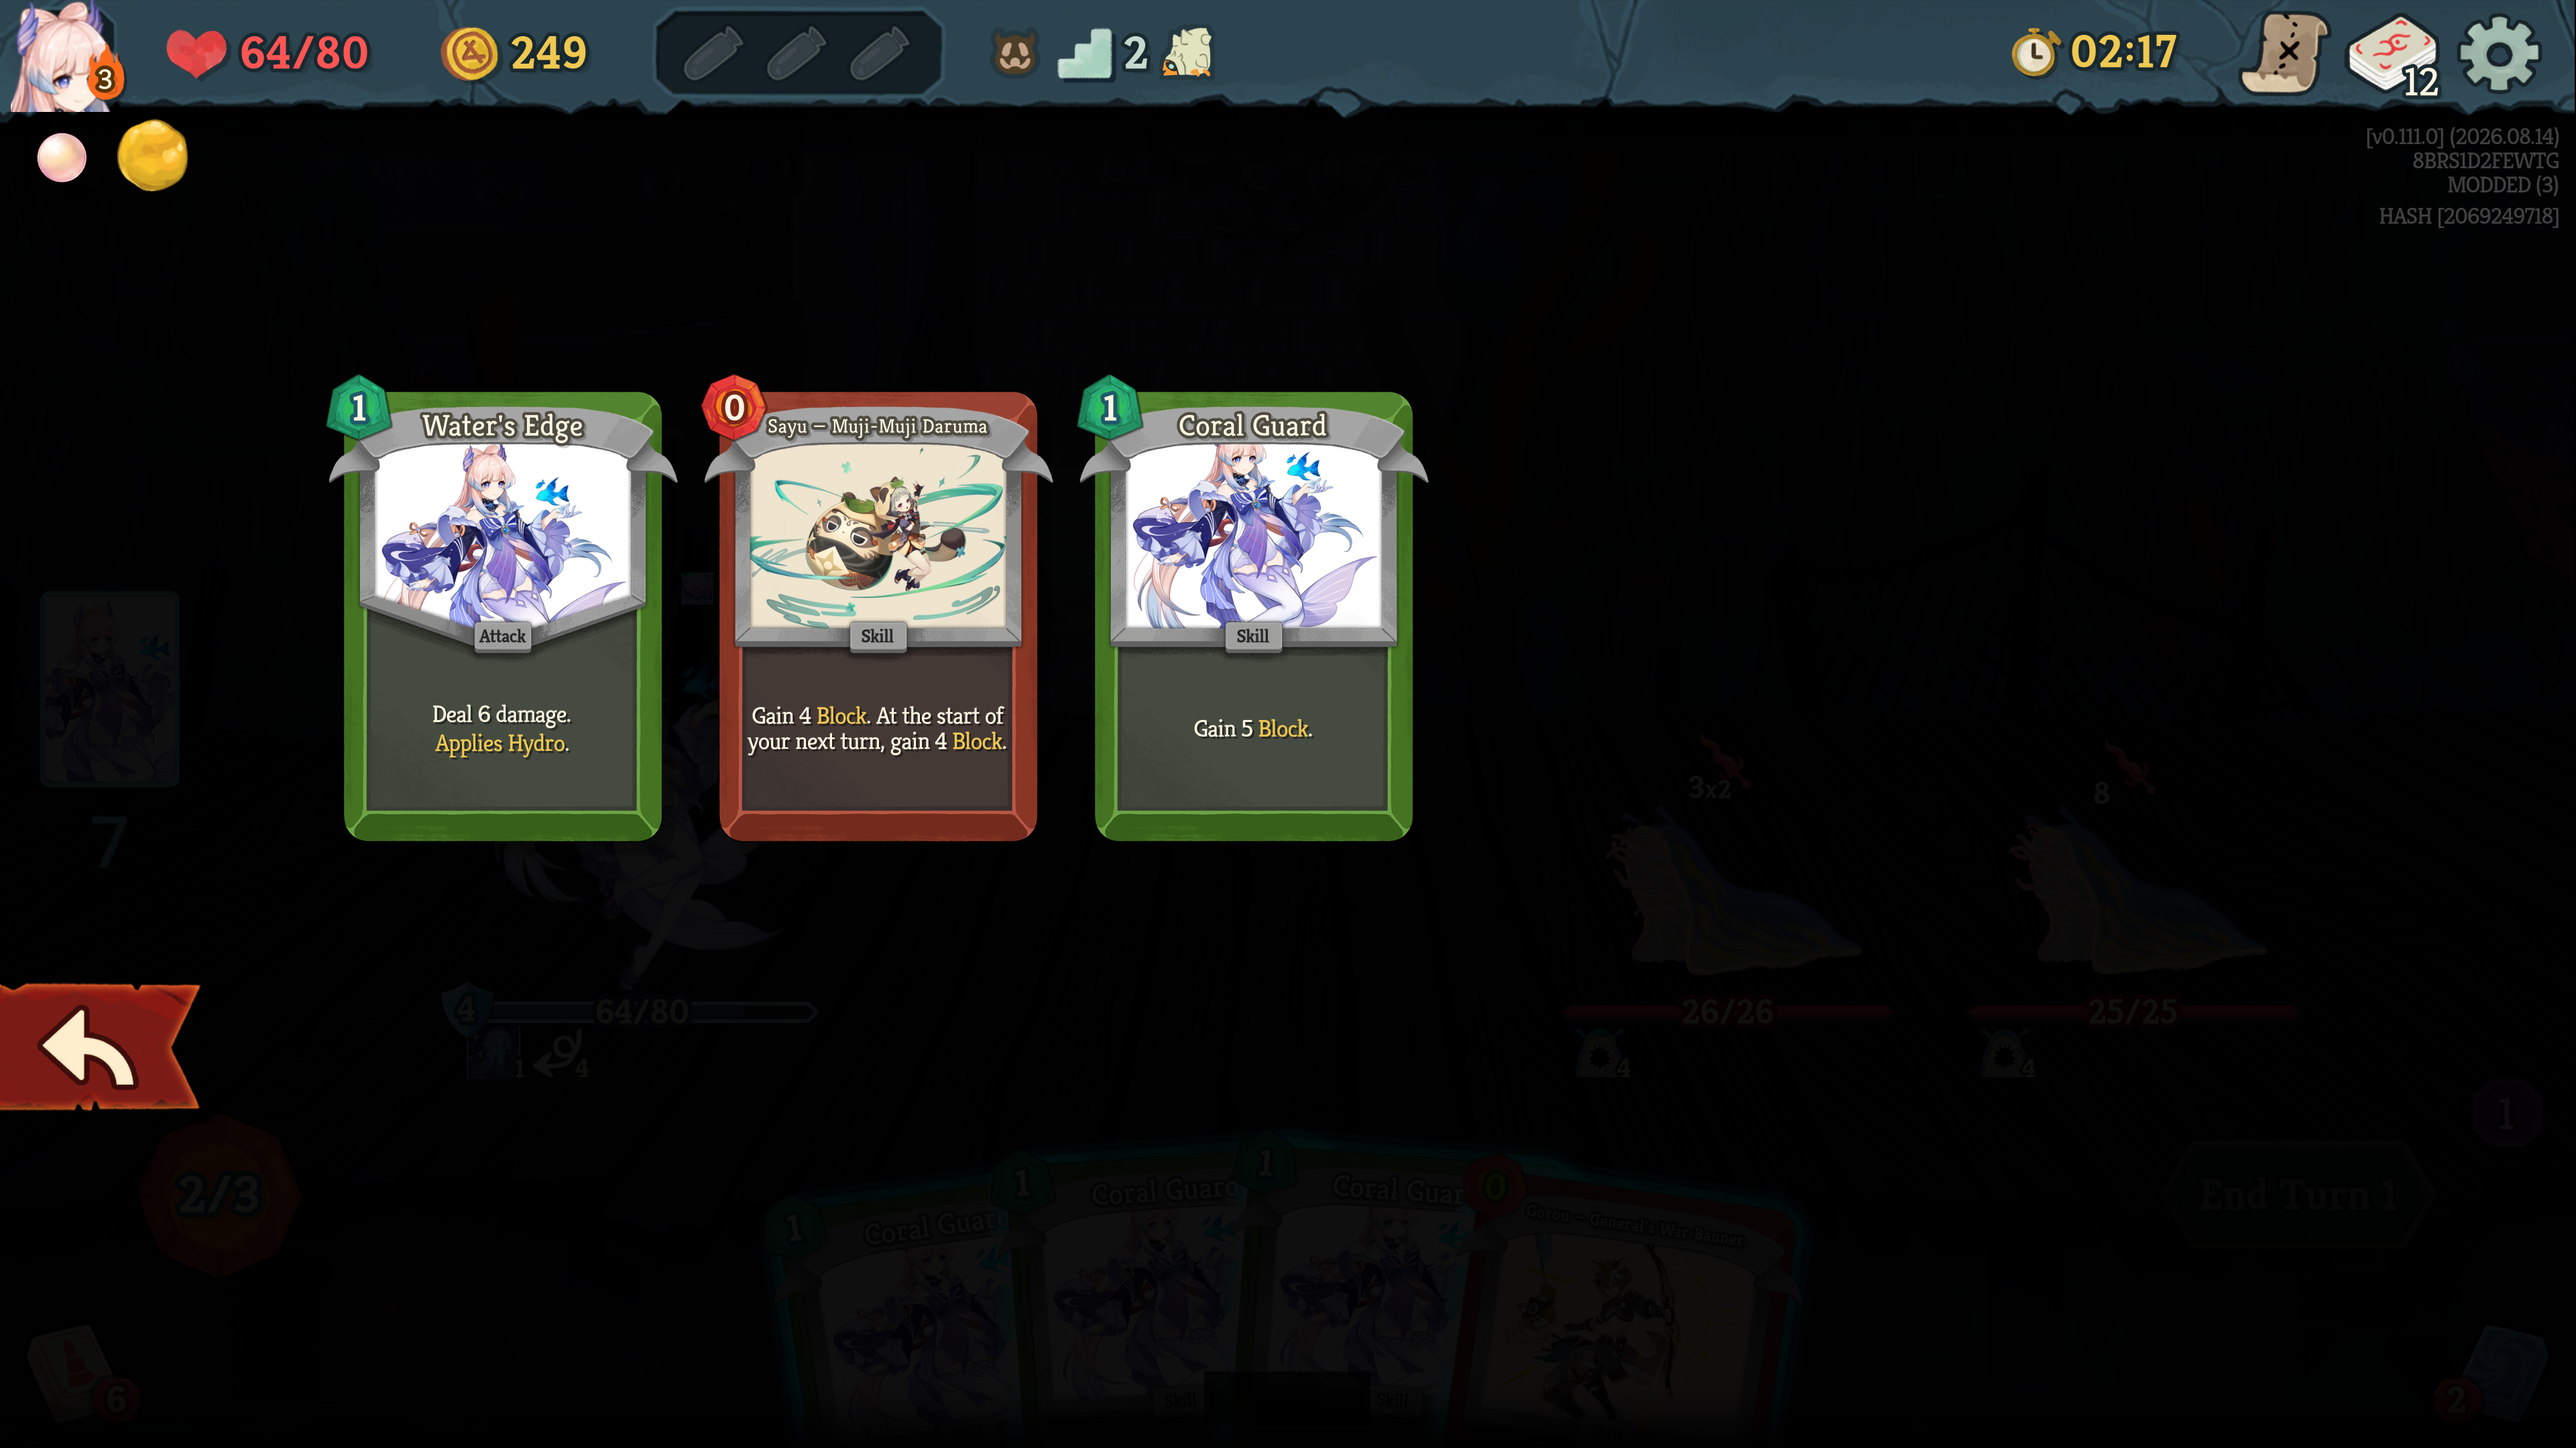
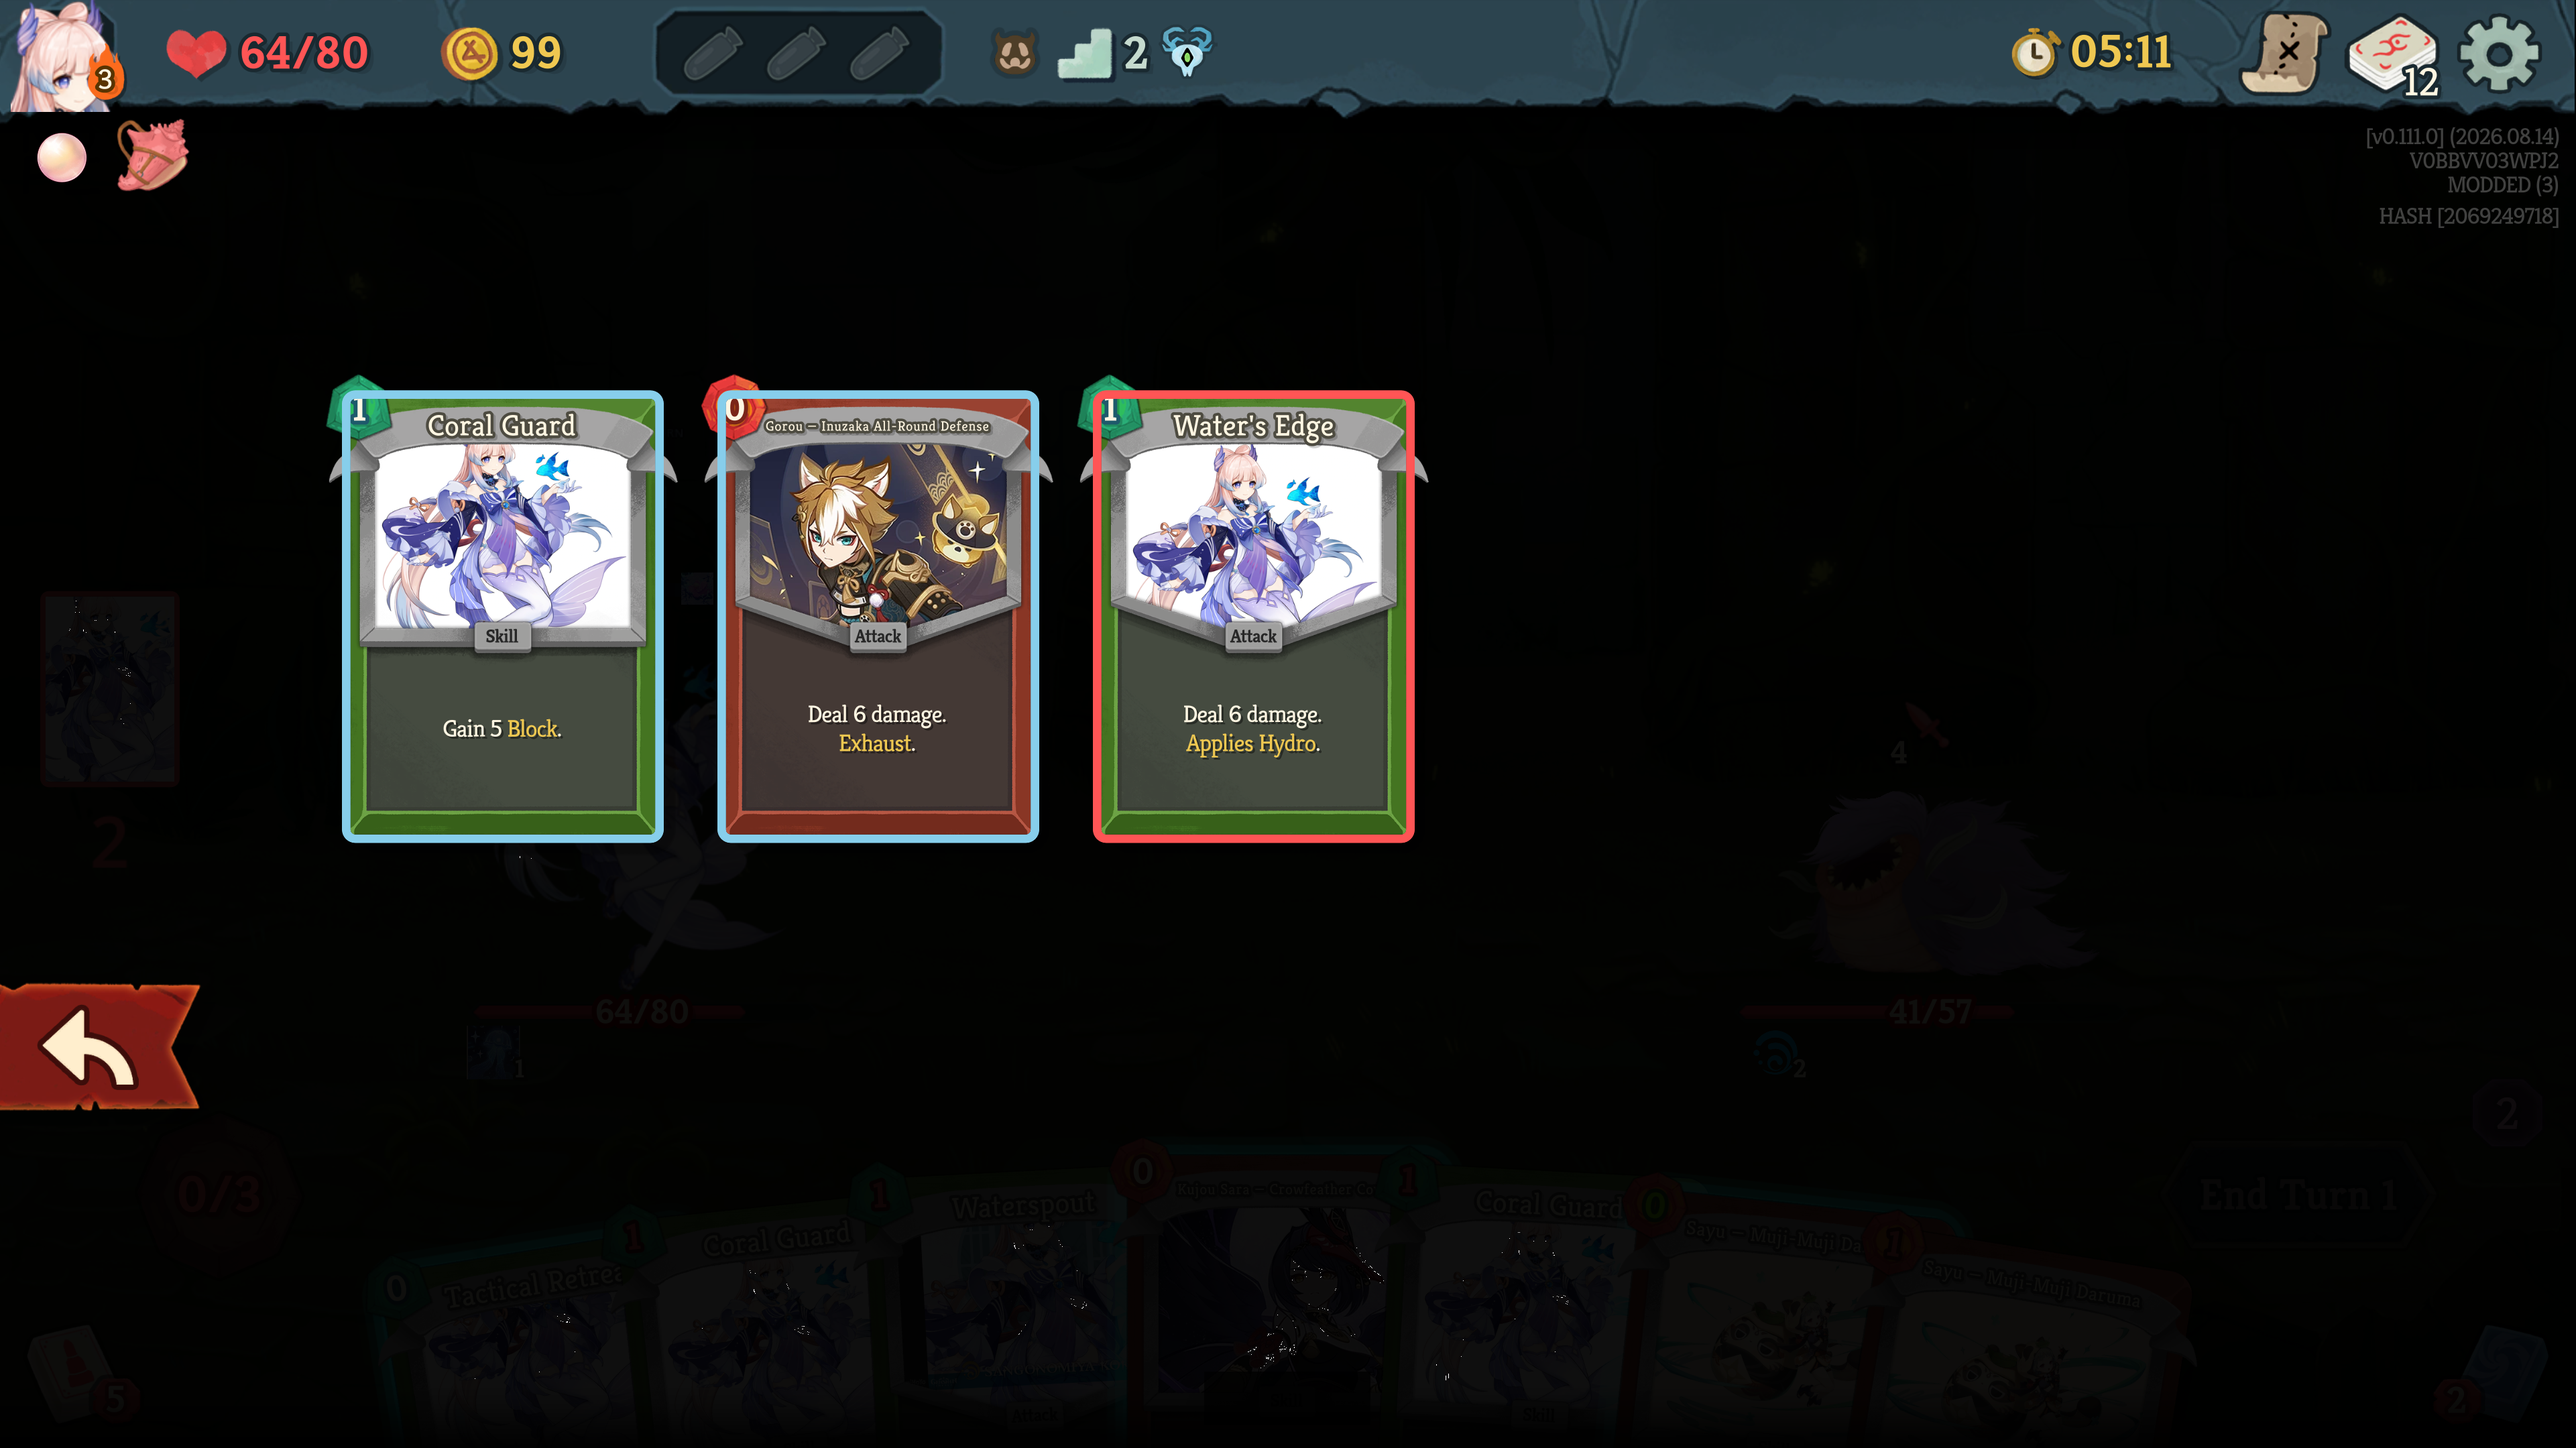
EB-201: live acceptance, and the row leaves HEAD
Packet §14.11: the pile rings paint on `0.2.1517+proto.dirty`, seed
`V0BBVV03WPJ2`, first fight of act 1. Queue 3 / 0 / 3 through the dev door.
Bank 7 rings all three blue; bank 3 rings blue, blue, RED on the third, and
the wire agrees (`run_out_index` 2). The base game's own draw pile, opened
after ours closed, carries no ring on a different instance of the same faces
-- the disarm and the identity scoping in one frame. Two `painted 3 of 3
entries at 300x422` lines in `godot.log`, no exception from any of the three
classes.

Captures: `state-e-pile-view-runs-out.png` overwritten, and
`state-f-pile-view-covering.png` / `state-g-drawpile-disarmed.png` added.
Every frame in the section is dev-door staged, so `bridge.GRANT_GUARDRAIL`
applies and none of it is a measurement.

`EB-201` closes and leaves the register; 201 leaves `OPEN_IDS` in the same
commit so the number cannot be re-minted. `EB-198`'s row loses its gate and
is back to one action: the blind read.

Claude-Session: https://claude.ai/code/session_012bpxrtBgtj4f3yQ2AaPnjt

diff --git a/tools/lint_register_ids.py b/tools/lint_register_ids.py
@@ -388,9 +388,6 @@ OPEN_IDS: dict[str, frozenset[int]] = {
         156, 157, 158, 159, 160, 161, 162, 163,
         180, 181, 182, 183, 184,
         189, 191, 192, 193, 194, 195, 196, 197, 198,
-        # 201 minted 2026-08-29 by EB-198's live acceptance: the pile view's
-        # affordability rings never paint.
-        201,
         # 199/200 minted 2026-08-29 by R220 B: the shared Burst retirement and
         # its C# arm, both gated on the three character folds landing first.
         199, 200,

diff --git a/docs/current/BACKLOG.md b/docs/current/BACKLOG.md
@@ -106,10 +106,9 @@
 | `EB-195` | **Scope:** R219 F moved roster HP (Kokomi 80, Furina 78, #156), so the twelve-arm table at RT12/D18/P11/C20 no longer describes the arms it names, and under R68 every table quoting a Furina or Kokomi row is stale. It also carries the `POLICY_VERSION` bump for `PILOT_BURST_DIVISOR`'s removal (R220 B), **merged into the same run**. **Next action:** re-run it on the post-#156, post-retirement world; strike, never rewrite, what it supersedes (R101b). **Gate:** the pilot half waits on `EB-199`. **Acceptance:** ONE twelve-arm table carrying both moves | R219 F; R220 B, 2026-08-29 |
 | `EB-196` | **Scope:** the C# memory could never hold an entry. Its per-fight clear sat in `KokomiResourceHooks.Subscribe`, which the combat re-invokes on **every hook broadcast**, so both entry rules filed and were wiped between hooks — and the same line wiped the pulse key, the strip's "played no card this turn". **Next action:** done — clear moved to `BeforeCombatStart`, `Subscribe` only stashes, plus an identity guard. **Gate:** none. **Acceptance:** locks FAIL pre-fix then green; a live fight showing an entry, a firing front and a blocked front | Kurage memory §13.6 Gate B, 2026-08-29 |
 | `EB-197` | **Scope:** under the memory flag the Bake-Kurage buff printed "Lasts 1 more turn" while the strip in the same frame said "on the field for the whole fight". Nothing under the flag ticks the power down (§12.6 items 1/2/8), so the duration sentence was false on its face. **Next action:** done — under `PROTOTYPE_CARDS` the face prints the lifetime it has and no countdown; the release face is byte-identical. **Gate:** none. **Acceptance:** locks seen to FAIL pre-fix then green, and the buff read live off a `+proto` build | Kurage memory §13.6 Gate B, 2026-08-29 |
-| `EB-198` | **Scope:** the strip was misread twice and both frames diagnosed TRUE — insufficient, not defective (§14). Built on `kurage-memory-card`; **live acceptance RUN** 2026-08-29 on `0.2.1506+proto` (§14.10): three HUD states and the click render, one thumbnail defect found and fixed, pile rings dead (`EB-201`). **Next action:** the blind read, once `EB-201` ships the half the pile answers. **Gate:** `EB-201`. **Acceptance:** a blind tester says off a live frame whether the next memory fires, and where the Charge runs out | §14, §14.10; blind run |
+| `EB-198` | **Scope:** the strip was misread twice and both frames diagnosed TRUE — insufficient, not defective (§14). **Live acceptance RUN** 2026-08-29: three HUD states and the click on `0.2.1506+proto` (§14.10, one thumbnail defect fixed), the pile's own half on `0.2.1517+proto.dirty` (§14.11 — rings blue to where the bank reaches, red back, disarmed on close). **Next action:** the blind read. **Gate:** none. **Acceptance:** a blind tester says off a live frame whether the next memory fires, and where the Charge runs out | §14, §14.10, §14.11 |
 | `EB-199` | **Scope:** the shared Burst retirement itself (R220 B): the engine's Burst fields and ops, the `requires` gate, the kit-grant machinery, eight constants in `constants.py`, the three sheets' `burst_max`, and ~30 test files — each a rewrite against the signature resource, `test_kokomi_rotation_law.py` among them, the amended clause's red test. **Next action:** none yet. **Gate:** all three folds landed, Kokomi → Klee → Furina (§3.3/§5.5); the R213 freeze. **Acceptance:** `grep -i burst_energy tier0/` returns only retired-display comments | burst-retirement §5, §7; R220 B |
 | `EB-200` | **Scope:** the C# arm of the retirement (R220 B): the three pools' off-pool carve-outs as Klee's and Furina's cards move into the draftable pool, the `Burst Energy` keyword loc id and its consumer sweep (an id is an API), the retired-display registry (`KleePowerIcons.cs`), and the `GaugeBridge` re-point — Kokomi's Charge graduating to the overhead anchor. **Next action:** none; rides `EB-199`. **Gate:** `EB-199`. **Acceptance:** a release build carries no `Burst Energy` keyword and the indicator reads each signature resource | burst-retirement §5.3, §7; R220 B |
-| `EB-201` | **Scope:** the Kurage memory pile view's affordability rings never paint (§14.10). The postfix on private `NCard.UpdateStarCostVisuals` binds with no Harmony error and our `PileType.None` pile opens in order, but no ring appears on any bank. **Next action:** settle it off the decompile (`NCardPileScreen` / `NCardGrid` / `NCard`), then re-point the hook OR the z-order — never both on a guess. **Gate:** none. **Acceptance:** the pile rings blue to the entry the bank reaches and red back from there, and disarms on close | §14.10; `EB-198` |
 | `EB-180` | **Scope:** `understudy/soak.py` (2,337 lines), `blindplay.py` (2,172) and `staged_turn.py` (1,994) each carry three or four seams in one file — launch/teardown, driver, telemetry; render, grammar, session, audit; stage, grade, execute, ledger — so every change pages a whole module. **Next action:** split each along its seams, public entry points unchanged, atlas updated. **Gate:** after Kokomi slice 2 opens — not mid-funnel. **Acceptance:** no understudy module over 800 lines; `tools/module_map.py` shows one concern per file | [USER] 2026-08-29 |
 
 ## tests — pins & filed-not-fixed

diff --git a/review/active/kokomi-kurage-memory-2026-08-29.md b/review/active/kokomi-kurage-memory-2026-08-29.md
@@ -2910,3 +2910,59 @@ per pile open. The `[WARN] [klee] No card art at …` block and the
 light portrait (it is cream on white here, and low-contrast on Water's Edge);
 whether 104px is the right size; whether the left edge is the right home. Those
 are taste, not correctness, and §14.1's five quotes are the only spec they have.
+
+### 14.11 The pile rings (`EB-201`)
+
+Run 2026-08-29 on **`0.2.1517+proto.dirty`** from the art-bearing main checkout
+at `eb201-pile-rings` (detached), game v0.111.0, `validate.ps1` OK on the whole
+gate (S7 suite 325.9s). The dirty mark is the same untracked scratch under
+`review/qa/local-sanity-2026-08-29*/` and `review/qa/two-instance/` that §14.10
+carried; it is another workstream's and not this branch's to commit.
+
+**The cause, settled off the decompile.** §14.10 left two candidates. The
+first — that the hook does not run for a pile-grid `NCard` — is **false, by
+construction**: `NCardGrid.InitGrid` builds each entry with `NCard.Create` and
+`NGridCardHolder.Create`, adds the holder to the live scroll container, and
+then calls `nCard.UpdateVisuals(_pileType, CardPreviewMode.Normal)`, which
+calls `UpdateStarCostVisuals` unconditionally; the scrolled-window reuse path
+`NCardHolder.ReassignToCard` calls the same `UpdateVisuals` again.
+
+The defect was the **rect**. An `NCard` is a `Control` whose own rect is not
+the card face: `NCardHolder.ConnectSignals` pins `CardNode.Position` to
+`Vector2.Zero` and `NCardGrid.UpdateGridPositions` places each holder at the
+CELL CENTRE, so the face is drawn centred on the node's origin — and
+`NCard.GetCurrentSize` returns the constant `defaultSize * Scale` rather than
+reading `Size`, carrying the base game's own warning that you want the HOLDER's
+size instead. The `FullRect` anchor preset therefore sized the ring to that
+rect: a `Panel` correctly parented, correctly coloured, and zero pixels wide.
+No exception, no ring — the frame §14.10 captured. (These line numbers do not
+exist: the decompile is `ilspycmd -t <FullTypeName>` to stdout, per §14.5.)
+
+**The fix is a rect and a draw order, and the hook is unchanged.** The ring
+takes `NCard.defaultSize` centred on the origin, re-applied on every paint
+because a pooled `NCard` arrives carrying whatever the last screen left on it,
+and is moved to last child so it draws over `%CardContainer` rather than under
+it. One INFO line per pile open now names how many entries were painted, so the
+next reading of this can tell a dead hook from an invisible ring without a
+second deploy.
+
+**What rendered.** Live Kokomi run, seed `V0BBVV03WPJ2`, first fight of act 1.
+The queue was built through the dev door and the bank moved with
+`set_resource`, so `bridge.GRANT_GUARDRAIL` applies to every frame here and
+nothing in this section is a measurement. Queue: Coral Guard (price 3), Gorou
+(0), Water's Edge (3), read back off the wire.
+
+| State | Board | Result |
+|---|---|---|
+| Covering bank | bank 7, queue 3 / 0 / 3 | **RENDERS.** Three blue rings. `state-f-pile-view-covering.png` |
+| Runs out | bank 3, same queue | **RENDERS.** Blue, blue, **red** on Water's Edge — the wire agrees (`run_out_index` 2). `state-e-pile-view-runs-out.png` |
+| Disarm | our pile closed, the base game's DRAW pile opened | **NO RINGS.** Its Coral Guard and Water's Edge are different instances of the same faces and carry nothing. `state-g-drawpile-disarmed.png` |
+
+**`godot.log`.** Two pile opens, each `[INFO] CardPileScreen has no info text.`
+followed by `[INFO] [klee] kurage pile ring: painted 3 of 3 entries at
+300x422.` No exception, no error and no warning from `KurageMemoryCard`,
+`KurageMemory` or `NCardPileScreen`.
+
+**Not covered.** A queue long enough to scroll — the reuse path is decompiled,
+not witnessed. Whether the ring reads against every card frame colour is
+[USER]'s eyes-on, like §14.10's other three.
